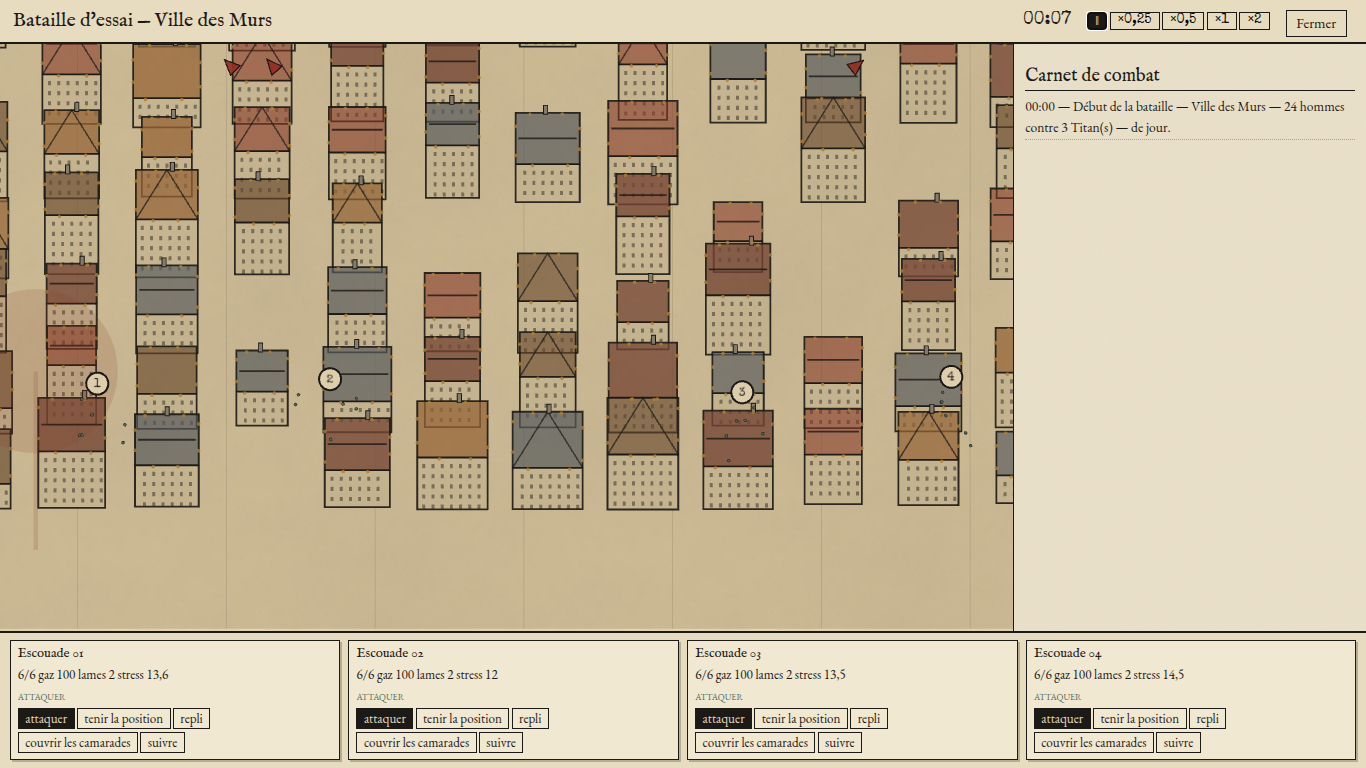
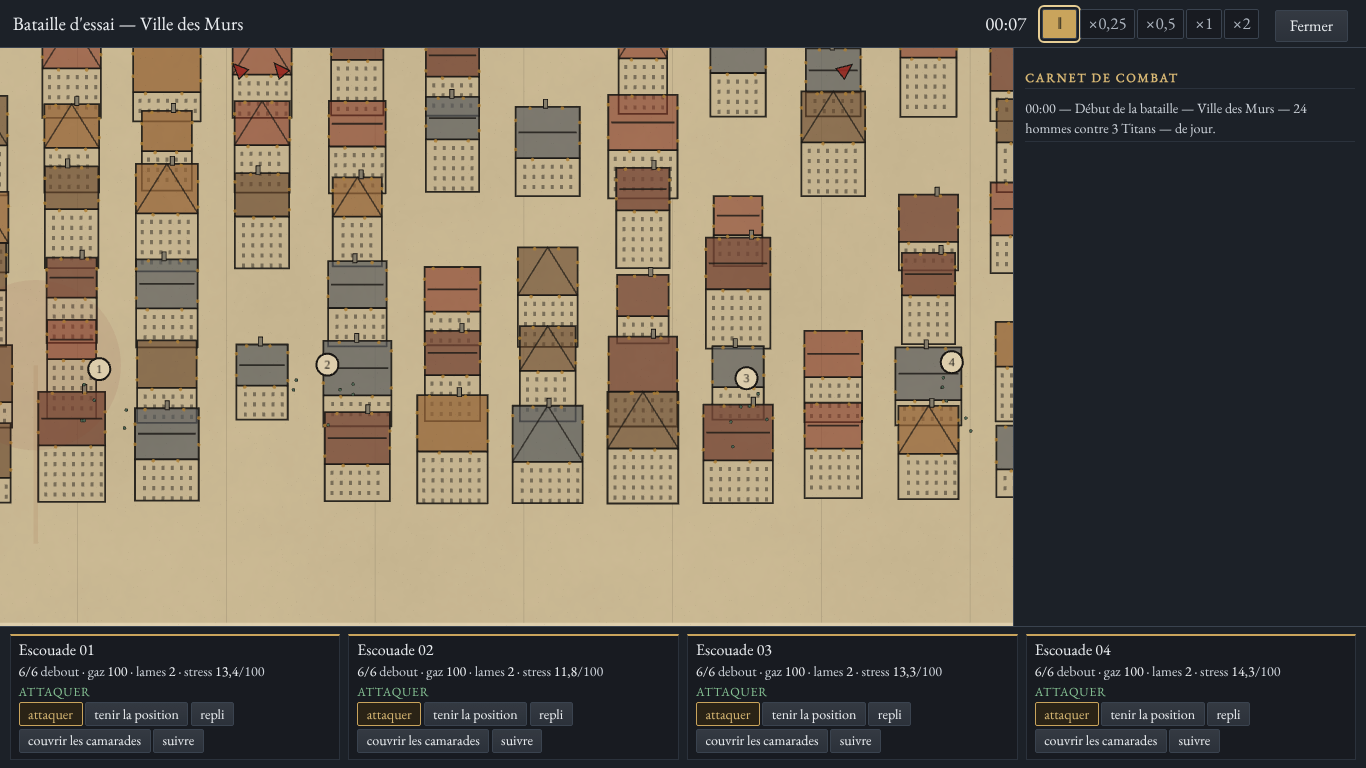
Dette n° 21 (en partie) : accord en nombre, chiffres libellés, postes de dépense en montants
Claude-Session: https://claude.ai/code/session_01QkVHPRrYAvmotTxhToJVAL

diff --git a/src/i18n/index.ts b/src/i18n/index.ts
@@ -7,9 +7,24 @@ export type Params = Readonly<Record<string, string | number>>;
 
 const DICTIONARIES: Record<Locale, Dictionary> = { fr, en };
 
-/** Remplace `{nom}` par la valeur du paramètre ; un paramètre absent reste visible pour être repéré. */
-export function interpolate(template: string, params: Params = {}): string {
-  return template.replace(/\{(\w+)\}/g, (whole, name: string) => (name in params ? String(params[name]) : whole));
+/** Valeur numérique d'un paramètre, chiffres formatés compris (« 1 900 », « 2,5 ») ; NaN sinon. */
+function numberOf(v: string | number): number {
+  return typeof v === "number" ? v : Number(v.replace(/[\s\u00a0\u202f]/g, "").replace(",", "."));
+}
+
+/**
+ * Remplace `{nom}` par la valeur du paramètre ; un paramètre absent reste visible pour être repéré. Accord en nombre
+ * (dette n° 21) : `{nom|singulier|pluriel}` choisit la forme selon la valeur du paramètre : en français, singulier pour 0 et 1
+ * (« 0 Titan », « 1 Titan », « 4 Titans ») ; en anglais, pour 1 seulement.
+ */
+export function interpolate(template: string, params: Params = {}, locale: Locale = "fr"): string {
+  return template
+    .replace(/\{(\w+)\|([^|{}]*)\|([^|{}]*)\}/g, (whole, name: string, one: string, many: string) => {
+      if (!(name in params)) return whole;
+      const n = Math.abs(numberOf(params[name] as string | number));
+      return (locale === "fr" ? n < 2 : n === 1) ? one : many;
+    })
+    .replace(/\{(\w+)\}/g, (whole, name: string) => (name in params ? String(params[name]) : whole));
 }
 
 /**
@@ -49,7 +64,7 @@ export function createTranslator(locale: Locale, dictionaries: Record<Locale, Di
   return (key: string, params?: Params): string => {
     const own = dictionaries[locale][key];
     const template = own ?? dictionaries.fr[key] ?? key;
-    const text = interpolate(template, params);
+    const text = interpolate(template, params, own !== undefined ? locale : "fr");
     if ((locale !== "fr" && own !== undefined) || !params || articles.size === 0) return text;
     return contractFr(text, Object.values(params).filter((v): v is string => typeof v === "string"), articles);
   };

diff --git a/src/ui/panels/diplomacyPanel.ts b/src/ui/panels/diplomacyPanel.ts
@@ -13,6 +13,11 @@ import { formatNumber } from "../why";
  * Chancellerie (P7 ; 02 §11, 09 DIP) : relations à quatre axes avec chaque nation, traités, guerre et paix, embargo ;
  * chaque proposition montre l'utilité prévue de l'autre partie ; neutralité d'Hizuru ; journal de raisonnement des IA.
  */
+/** Mot d'échelle d'un axe de relation (−100 à 100 ; la peur va de 0 à 100) : dette n° 21. */
+export function axisLevel(v: number): "tres_bas" | "bas" | "neutre" | "haut" | "tres_haut" {
+  return v <= -50 ? "tres_bas" : v < -15 ? "bas" : v <= 15 ? "neutre" : v < 50 ? "haut" : "tres_haut";
+}
+
 export class DiplomacyPanel implements Panel {
   readonly id = "diplomatie" as const;
   private kind = new Map<string, TreatyKind>();
@@ -96,7 +101,9 @@ export class DiplomacyPanel implements Panel {
         const axes = el("div", "chancellerie__axes");
         for (const axis of ["trust", "interest", "fear", "ideology"] as const) {
           const kv = el("div", "kv");
-          kv.append(el("span", "kv__cle", t(`dip.axis.${axis}`)), valueEl(this.ctx, formatNumber(Math.round(r[axis])), () => ({ title: t(`dip.axis.${axis}`), sections: [{ text: t(`dip.axis.${axis}_why`) }] }), "kv__valeur"));
+          // Dette n° 21 : le chiffre brut porte un mot d'échelle (« 0 · neutre », « 62 · élevée »).
+          const v = Math.round(r[axis]);
+          kv.append(el("span", "kv__cle", t(`dip.axis.${axis}`)), valueEl(this.ctx, `${formatNumber(v)} · ${t(`dip.level.${axisLevel(v)}`)}`, () => ({ title: t(`dip.axis.${axis}`), sections: [{ text: t(`dip.axis.${axis}_why`) }] }), "kv__valeur"));
           axes.append(kv);
         }
         detail.append(axes);

diff --git a/tests/i18n/i18n.test.ts b/tests/i18n/i18n.test.ts
@@ -36,6 +36,20 @@ describe("i18n (AC-14)", () => {
     expect(t("date.format", { year: 850, day: 12 })).toBe("an 850, jour 12");
     expect(interpolate("{a} et {b}", { a: 1 })).toBe("1 et {b}");
   });
+  it("accord en nombre (dette n° 21) : singulier pour 0 et 1 en français, pour 1 seulement en anglais ; chiffres formatés lus", () => {
+    expect(t("rt.start_titans_only", { map: "Trost", ours: 12, titans: 1, light: "de jour" })).toContain("contre 1 Titan — de jour");
+    expect(t("rt.start_titans_only", { map: "Trost", ours: 12, titans: 4, light: "de jour" })).toContain("contre 4 Titans —");
+    expect(t("lesson.abnormal", { n: 2 })).toMatch(/^2 Titans anormaux rencontrés :/);
+    expect(t("lesson.abnormal", { n: 1 })).toMatch(/^1 Titan anormal rencontré :/);
+    expect(interpolate("{n} {n|homme|hommes}", { n: "1 900" })).toBe("1 900 hommes");
+    expect(interpolate("{n} {n|homme|hommes}", { n: 0 })).toBe("0 homme");
+    expect(interpolate("{n} {n|man|men}", { n: 0 }, "en")).toBe("0 men");
+    expect(interpolate("{x|a|b}", {})).toBe("{x|a|b}");
+    const tr = createTranslator("en");
+    expect(tr("fin.verdict.terme_texte", { n: 1, m: 3 })).toContain("with 1 objective out of the 3");
+    // Plus aucune forme « (s) » dans les textes.
+    expect(Object.entries(fr).filter(([, v]) => /\(s\)/.test(v)).map(([k]) => k)).toEqual([]);
+  });
   it("repli : en → fr → clé", () => {
     const tr = createTranslator("en", { fr: { a: "A-fr", b: "B-fr" }, en: { a: "A-en" } });
     expect(tr("a")).toBe("A-en");

diff --git a/src/ui/why.ts b/src/ui/why.ts
@@ -74,7 +74,10 @@ export function displayedFactors(x: Explained): Factor[] {
 
 /** Ligne d'un facteur : libellé, valeur (base, ajout signé ou coefficient) et sens (bonus ou malus). */
 export function factorLine(f: Factor, cost = false): WhyRow {
-  const value = f.op === "mul" ? `×${new Intl.NumberFormat("fr-FR", { maximumFractionDigits: 3 }).format(f.value)}` : f.op === "base" ? formatNumber(f.value) : formatSigned(f.value);
+  // Dette n° 21 : dans une dépense, un poste qui s'ajoute s'écrit comme un montant (« 7 800 », en rouge), non « +7 800 » :
+  // le signe « + » contredisait le « −8 304 » de la consommation au solde. Une réduction de dépense garde son « − ».
+  const amount = f.op === "base" || (cost && f.op === "add" && f.value > 0);
+  const value = f.op === "mul" ? `×${new Intl.NumberFormat("fr-FR", { maximumFractionDigits: 3 }).format(f.value)}` : amount ? formatNumber(f.value) : formatSigned(f.value);
   // Bonus et malus colorés (U4) : un ajout positif ou un multiplicateur > 1 est un bonus ; la base reste neutre ;
   // pour une dépense (consommation, pertes), le sens est inversé.
   const sign = f.op === "base" ? 0 : f.op === "mul" ? Math.sign(f.value - 1) : Math.sign(f.value);

diff --git a/src/ui/tactical/battleScreen.ts b/src/ui/tactical/battleScreen.ts
@@ -156,7 +156,8 @@ export async function openBattleScreen(o: BattleScreenOptions): Promise<TimedOrd
       return v;
     };
     const refs: CardRefs = { men: val(t("tac.men_why")), gas: val(t("tac.gas_why")), blades: val(t("tac.blades_why")), stress: val(t("tac.stress_why", { panic: bt.world.balance.soldiers.panic_threshold })), order: el("p", "carte-escouade-ordre"), buttons: [], follow: el("button", "registre-bouton petit", t("tac.follow")) };
-    line.append(refs.men, ` ${t("tac.gas")} `, refs.gas, ` ${t("tac.blades")} `, refs.blades, ` ${t("tac.stress")} `, refs.stress);
+    // Dette n° 21 : chaque chiffre porte son libellé (« 6/6 debout · gaz 100 · lames 2 · stress 0/100 »).
+    line.append(refs.men, ` ${t("tac.standing")} · ${t("tac.gas")} `, refs.gas, ` · ${t("tac.blades")} `, refs.blades, ` · ${t("tac.stress")} `, refs.stress, t("tac.stress_scale"));
     card.append(line, refs.order);
     const btns = el("div", "carte-escouade-ordres");
     for (const ord of TACTICAL_ORDERS) {

diff --git a/tests/ui/why.test.ts b/tests/ui/why.test.ts
@@ -26,6 +26,10 @@ describe("infobulles de calcul (U4, U10)", () => {
     expect(m.sections[0]?.rows.map((r) => r.sign)).toEqual([undefined, "plus", "moins"]);
     expect(m.sections[1]?.rows.map((r) => r.sign)).toEqual([undefined, "moins"]);
     expect(m.sections[0]?.rows.map((r) => r.value)).toEqual(["100", "+20", "×0,8"]);
+    // Dette n° 21 : un poste de dépense s'écrit comme un montant (sans « + »), en rouge ; une réduction garde son « − ».
+    expect(m.sections[1]?.rows.map((r) => r.value)).toEqual(["50", "10"]);
+    const saved = whyModel({ title: "x", sections: [{ explained: new Explainer().base("why.base", 50).add("why.season", -5).done(), cost: true }] });
+    expect(saved.sections[0]?.rows.map((r) => [r.value, r.sign])).toEqual([["50", undefined], ["−5", "plus"]]);
   });
 
   it("sous-total signé et unité", () => {

diff --git a/docs/reports/dette.md b/docs/reports/dette.md
@@ -24,7 +24,7 @@ Format : **quoi** — où — gravité (faible / moyenne / forte). Tag `LC-repor
 | 18 | Phase UI, smoke:map : titre de la barre en majuscules CSS, `innerText` anglais « WALLS AND BLOOD » ; smoke:p5 : bouton « étudier » d'un nœud de l'arbre introuvable | `screen.css`, `researchPanel.ts` / `smoke-p5.ts` | moyenne | UI.7 (corrigé en UI.7, dc09c21 ; smoke relancés OK) |
 | 19 | Phase UI : ~~fond du menu 1920×1080 agrandi en 4K, canon grossier au premier plan~~ (corrigé : rendu 3840×2160, canon détaillé, voir `dettes-suite.md`) ; traductions anglaises des nouveaux textes absentes (repli sur le français) ; ~~« Journal de raisonnement des nations (débogage) » visible du joueur dans la chancellerie~~ (déjà réservé au mode auteur) ; dettes n° 13 et 14 (légende de carte) non reprises | `public/menu/`, `src/i18n/en.json`, `src/ui/panels/diplomacyPanel.ts` | faible | UI.7 |
 | 20 | smoke:tactique : « KO 0 erreur console » — 2 erreurs de page Pixi non interceptées (`Cannot read properties of null (reading 'geometry')` à la fermeture de la planche des figures, `(reading 'clear')` au début de la 1re bataille d'essai), aux deux passages de UI.7 ; `src/ui/tactical` non modifié par UI ; antériorité non vérifiée ; critère CUI-03 de la phase UI (seul KO de `smoke:*`) | `src/ui/tactical/specimenSheet.ts`, rendu tactique Pixi | moyenne | UI.7 (corrigé après la fusion : `destroy({ removeView: true })`, smoke:tactique OK) |
-| 21 | Revue UI (D-113), défauts non bloquants : panneaux à moitié vides (recherche, renseignement, cabinet) ; arbre de recherche petit en 4K, noms tronqués ; listes déroulantes natives ; chiffres bruts sans libellé (cabinet, escouades « 6/6 gaz 100 lames 2 », « idéologie 0 », « 1 Titan(s) ») ; consommation écrite « +7800 » en rouge ; barre du haut à 9 éléments ; fiche personnage sans relations ni cursus ; portraits de style « clip-art » (Zackly) ; libellés « Bac à sable » et « Bataille d'essai » ; canon low-poly au premier plan du menu 4K ; noms du cabinet (Amsel, Mohr, Kessel, Brahm) à vérifier dans les données ; critère CUI-07 de la phase UI : noms tronqués (ui-08 en 4K) et barre du haut à 9 éléments — corrigés après la fusion (arbre : 0 texte coupé sur 50 cases ; barre en 2 groupes de 6 et 3) ; liste coupée en ui-05 corrigée aussi (fondu de défilement) ; CUI-07 entièrement soldé ; restent ouverts les autres défauts de cette ligne (non bloquants) ; compléments de la seconde relecture : `docs/reports/UI.md` § « Seconde relecture indépendante » | `src/ui/panels/*`, `src/ui/portrait.ts`, `src/ui/mainMenu.ts` | moyenne | UI (revue D-113) |
+| 21 | Revue UI (D-113), défauts non bloquants : panneaux à moitié vides (recherche, renseignement, cabinet) ; arbre de recherche petit en 4K, noms tronqués ; listes déroulantes natives ; ~~chiffres bruts sans libellé (cabinet, escouades « 6/6 gaz 100 lames 2 », « idéologie 0 », « 1 Titan(s) ») ; consommation écrite « +7800 » en rouge~~ (**corrigé** le 2026-10-11 : accord en nombre dans les textes, plus aucun « (s) » ; « 6/6 debout · gaz 100 · lames 2 · stress 13/100 » ; « 0 · neutre » ; postes de dépense écrits en montants, voir `dettes-suite.md`) ; barre du haut à 9 éléments ; fiche personnage sans relations ni cursus ; portraits de style « clip-art » (Zackly) ; libellés « Bac à sable » et « Bataille d'essai » ; canon low-poly au premier plan du menu 4K ; noms du cabinet (Amsel, Mohr, Kessel, Brahm) à vérifier dans les données ; critère CUI-07 de la phase UI : noms tronqués (ui-08 en 4K) et barre du haut à 9 éléments — corrigés après la fusion (arbre : 0 texte coupé sur 50 cases ; barre en 2 groupes de 6 et 3) ; liste coupée en ui-05 corrigée aussi (fondu de défilement) ; CUI-07 entièrement soldé ; restent ouverts les autres défauts de cette ligne (non bloquants) ; compléments de la seconde relecture : `docs/reports/UI.md` § « Seconde relecture indépendante » | `src/ui/panels/*`, `src/ui/portrait.ts`, `src/ui/mainMenu.ts` | moyenne | UI (revue D-113) |
 | 22 | AUD : aucune écoute possible : fidélité des transcriptions du domaine public (faites de mémoire), justesse des timbres, niveaux relatifs, réverbération et filtres par état, ambiances. Les marches de Sousa, Schubert, Elgar et Boccherini ne sont pas transcrites (thèmes non restitués) | `src/audio/pieces.ts`, `src/audio/instruments.ts` | moyenne | AUD (à écouter par Gabriel) |
 | 23 | AUD : aucun enregistrement libre (réseau refusé, D-114) : à reprendre quand les domaines de `docs/reports/AUD.md` §2 seront autorisés, ou par dépôt dans `assets_user/musique/` | `assets_user/musique/` | faible | AUD |
 | 24 | AUD : l'index des pistes de l'utilisateur est figé à la construction (`dist/musique-utilisateur/`) ; pour l'application Windows, prévoir un dossier lu au lancement | `vite.config.ts`, PACK | faible | AUD |

diff --git a/docs/reports/dettes-suite.md b/docs/reports/dettes-suite.md
@@ -275,3 +275,20 @@ Les corrections de la 3D (n° 74, 75, 55) sont décrites dans `CONFORMITE-3D.md`
   soldats en cape verte, capuche levée, Ailes de la liberté au dos.
   - Défauts : traits de pluie tous parallèles et réguliers ; sol sec (ni flaques ni reflets) ; bâtiment translucide à droite
     zébré de hachures ; soldats petits dans le cadre.
+
+## Dette n° 21 (en partie) : chiffres sans libellé, pluriels, signes des dépenses
+- Accord en nombre dans les textes (`{n|singulier|pluriel}`, singulier pour 0 et 1 en français, pour 1 en anglais) : les
+  21 formes « (s) » réécrites (« 4 Titans », « 1 Titan », « 2 abstentions », « 1 objectif atteint »…).
+- Cartes d'escouade de la bataille 2D : « 6/6 debout · gaz 100 · lames 2 · stress 13,4/100 » au lieu de « 6/6 gaz 100
+  lames 2 stress 13,4 ». Chancellerie : chaque axe de relation porte un mot d'échelle (« 0 · neutre », « 62 · élevée »).
+- Infobulles : dans une dépense (consommation, pertes, entretien), un poste qui s'ajoute s'écrit comme un montant
+  (« 7 800 », en rouge) et non « +7 800 », qui contredisait le « −8 304 » du solde ; une réduction garde son « − ».
+- `npm run verify` (`dette21-verify.log`) : « Test Files  129 passed (129) », « Tests  801 passed (801) », `EXIT=0`.
+- `smoke:tactique` : premier passage (`dette21-smoke-tactique.log`) KO sur « 300 unités : temps JS par image p95 8.00 ms
+  < 8 ms » (simulation, que ce lot ne touche pas, à 1,90 ms contre 1,0 à 2,1 ms aux passages antérieurs : charge de la
+  machine) ; second passage (`dette21-smoke-tactique-2.log`) : « p95 7.60 ms < 8 ms », « revue P4 : 4 cartes d'escouade
+  entières dans la largeur (0 coupée(s)) », « smoke:tactique : tout est conforme. », `EXIT=0`. Marge mince : à surveiller.
+- **`p4-carte-ville.png`** (bas de l'écran) : quatre cartes d'escouade sur une ligne, « Escouade 01 » à « 04 », ligne
+  « 6/6 debout · gaz 100 · lames 2 · stress 13,4/100 », ordre « ATTAQUER », boutons d'ordres.
+  - Défauts : stress à une décimale (13,4) quand les autres valeurs sont entières ; boutons d'ordres sur deux lignes ; carte
+    du terrain vide au-dessus (fond uni beige) ; « gaz 100 » sans unité.

diff --git a/docs/PROGRESS.md b/docs/PROGRESS.md
@@ -3,8 +3,8 @@
 | Champ | Valeur |
 |---|---|
 | Phase | **PACK terminée** (application Windows Electron : `npm run package:win`, `smoke:pack` ; D-164). Feuille de route V2 achevée (N1 à N3). Suite : dette n° 72 (tenues des soldats, demande de l'utilisateur) et contrôle de conformité de la 3D, puis dettes. |
-| Tâche | Dettes n° 74, 75, 55 (décor), 56, 57, 58, 11, 38, 13, 14, 62, 65 corrigées ; 19 (fond du menu), 70 et 72 (aube, crépuscule, pluie en bataille) en partie ; 31 et 45 en partie (D-166 à D-172) ; dettes suivantes |
-| Dernier `npm run verify` | 2026-10-11 : code 0 ; 129 fichiers, 800 tests (`docs/reports/dette70-verify.log`) |
+| Tâche | Dettes n° 74, 75, 55 (décor), 56, 57, 58, 11, 38, 13, 14, 62, 65 corrigées ; 19 (fond du menu), 21 (libellés, pluriels, signes), 70 et 72 (aube, crépuscule, pluie en bataille) en partie ; 31 et 45 en partie (D-166 à D-172) ; dettes suivantes |
+| Dernier `npm run verify` | 2026-10-11 : code 0 ; 129 fichiers, 801 tests (`docs/reports/dette21-verify.log`) |
 | Prochaine étape | PROCHAINE ACTION EXACTE : dettes restantes par gravité (hors `src/sim`, figé depuis R2), puis résumé final des 3 jours le 2026-10-12 vers 19:35 UTC, sur `claude/intelligent-feynman-8ekib4` (mandat autonome jusqu'au 2026-10-12 19:33 UTC, D-148). À faire par Gabriel : `npm run package:win` sur Windows (`docs/LANCER_SUR_WINDOWS.md`) ; mesures GPU (dettes n° 49, 64, 71, 73) |
 
 ## Mandat autonome de trois jours (2026-10-09 → 2026-10-12, D-148)
